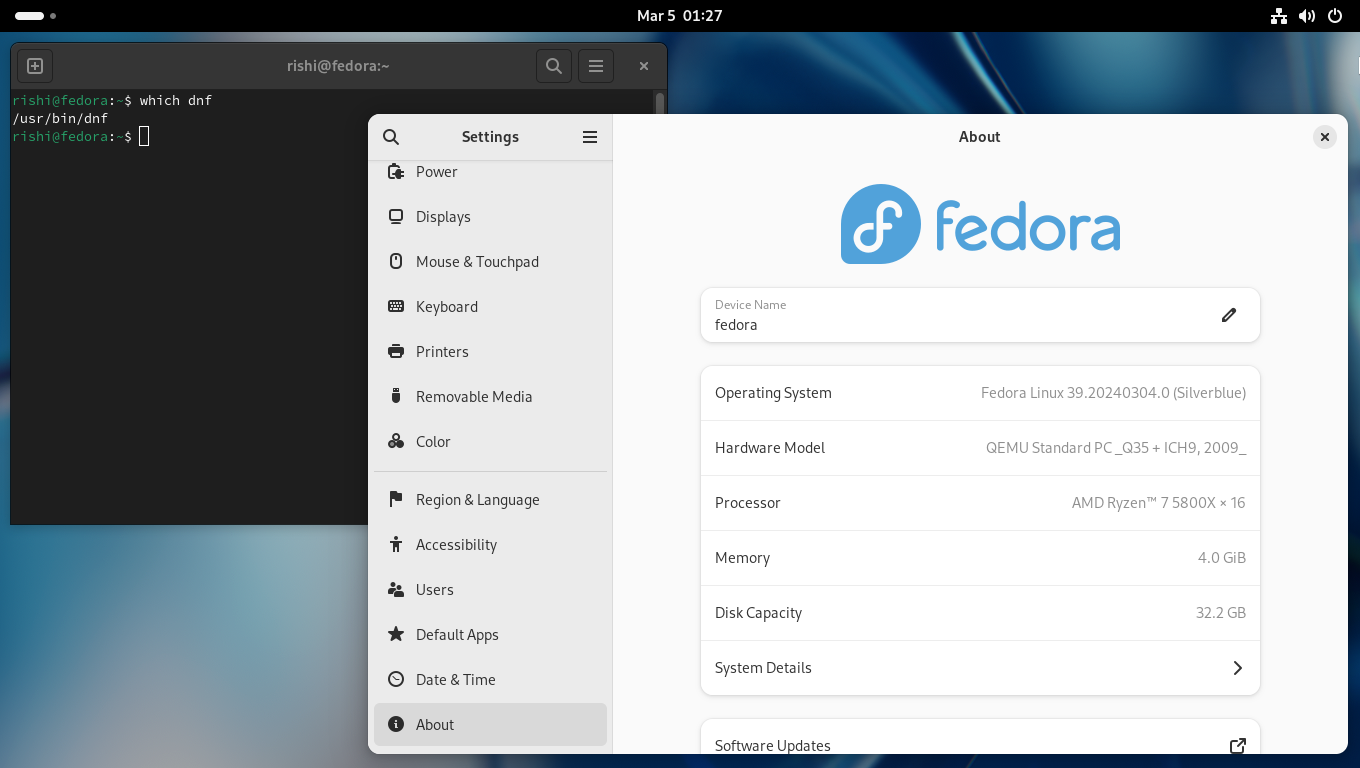
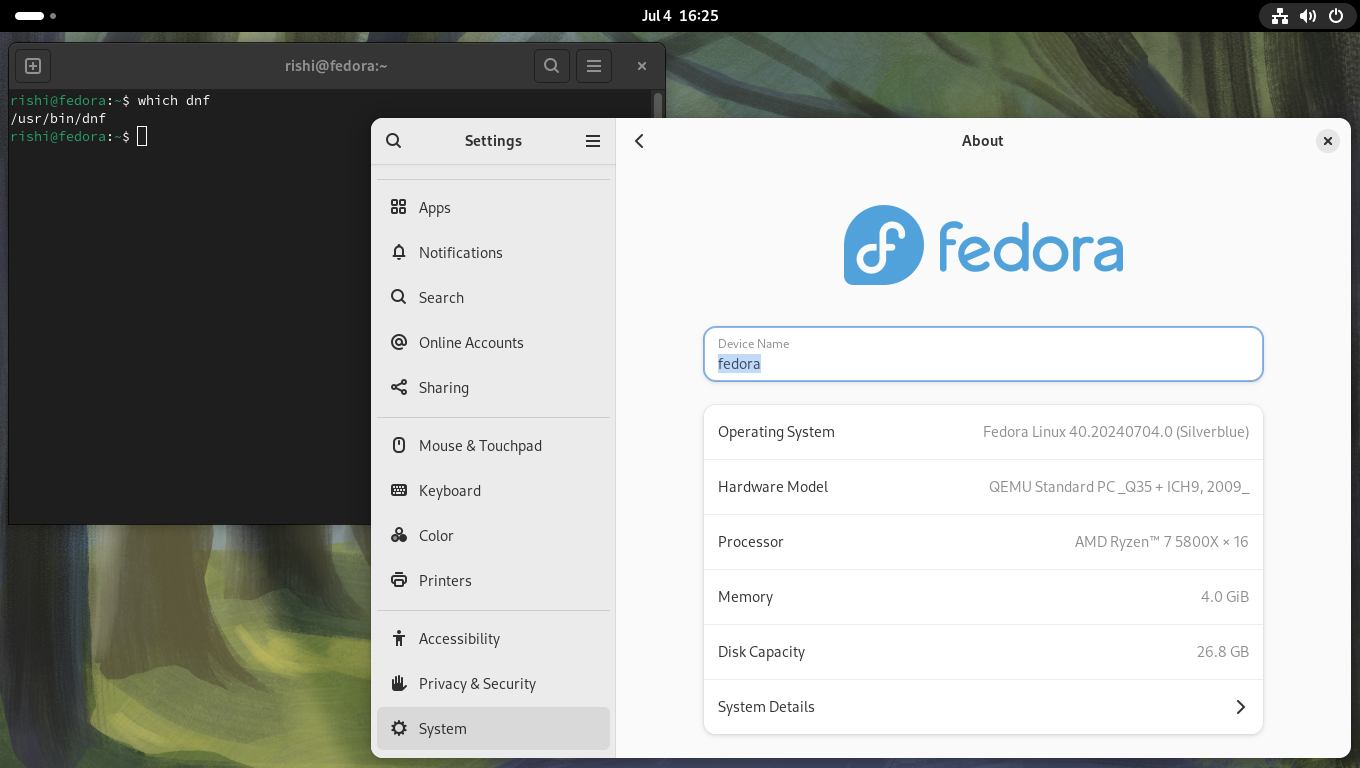
Update the boot from container use case to Fedora 40

diff --git a/use.md b/use.md
@@ -1,6 +1,6 @@
 ---
 layout: default
-fedora-version: 39
+fedora-version: 40
 ---
 
 <picture class="full pixels">
